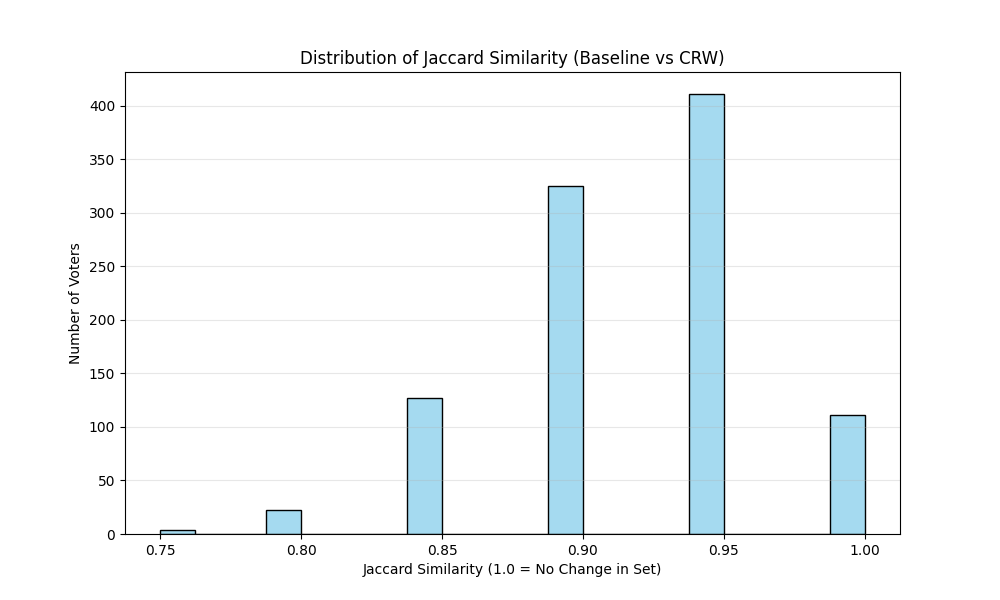
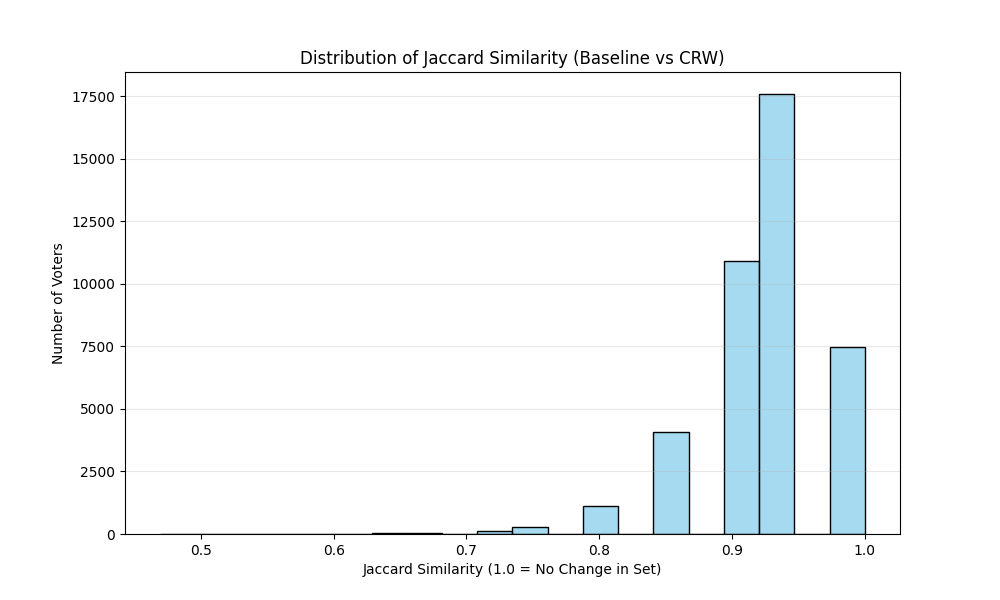
added functionality to rank ALL available candidates

diff --git a/vqs/recommendation_analysis.py b/vqs/recommendation_analysis.py
@@ -4,6 +4,8 @@ import matplotlib.pyplot as plt
 import seaborn as sns
 from pathlib import Path
 
+from vqs.result_management import ResultManager
+
 """
 Important Assumption: 
 We assume equal number of recommendations for all voters. Achieved either by setting n_recommendations to a fixed number, or by filtering voters and candidates by a certain canton. 
@@ -12,18 +14,85 @@ Any NaN values will raise an error.
 
 
 class RecommendationAnalyzer:
-    def __init__(self, config):
+    def __init__(self, config, important_params_list):
         self.config = config
         self.method = config.rec_dist_method
-        # Output directory for plots/stats
+        self.important_params_list = important_params_list
         self.output_dir = Path(config.RECOMMENDATION_RESULTS_DIR)
         self.output_dir.mkdir(parents=True, exist_ok=True)
 
-    def _calculate_jaccard(self, df, base_cols, crw_cols, n):
-        print(f"Calculating Jaccard for {len(df)} voters...")
+        print(
+            f"Initialized RecommendationAnalyzer with important parameters: {self.important_params_list}"
+        )
 
-        # 2. Efficient Vectorized calculation (Fast for 500k rows)
-        # We convert to numpy values once and iterate using zip
+    def analyze(
+        self, df_recommendations: pd.DataFrame, df_weights: pd.DataFrame
+    ) -> pd.DataFrame:
+        df = df_recommendations.copy()
+
+        # 0. Check for cached files
+        prefix = self._get_prefix()
+        rm = ResultManager(
+            config=self.config,
+            dir=self.output_dir,
+            params_list=self.important_params_list,
+            prefix=prefix,
+        )
+
+        exists = rm.exists()
+        if exists:
+            print(f"--- [Skip Save] Result with hash {rm.hash} already exists: ---")
+            print(f"    -> {exists.name}")
+            # TODO: print summary stats from text file if exists
+            return df
+
+        # If no existing file, proceed with analysis
+        print("No cached analysis found. Running new analysis...")
+        # 1. Identify match columns
+        # These look like _matchID_1_L2_sv ... _matchID_36_L2_sv
+        base_match_cols = [
+            c
+            for c in df.columns
+            if c.startswith("_matchID_") and c.endswith(f"_{self.method}")
+        ]
+        crw_match_cols = [
+            c
+            for c in df.columns
+            if c.startswith("CRW__matchID_") and c.endswith(f"_{self.method}")
+        ]
+
+        # 2. Safety checks
+        self._safety_checks(df=df, base_cols=base_match_cols, crw_cols=crw_match_cols)
+        n_recs = len(base_match_cols)
+
+        print(f"Analyzing {n_recs} recommendation slots for {len(df)} voters...")
+
+        # 3. Compute Metrics
+        stats = {}
+        df, stats = self._calculate_jaccard(
+            df=df,
+            base_cols=base_match_cols,
+            crw_cols=crw_match_cols,
+            n=n_recs,
+            stats=stats,
+        )
+
+        df, stats = self._calculate_rank_metrics(
+            df=df,
+            base_cols=base_match_cols,
+            crw_cols=crw_match_cols,
+            stats=stats,
+            n=n_recs,
+        )
+
+        # 5. Print and Save Stats
+        self._print_and_save_stats(stats)
+        self._visualize_changes(df)
+
+        return df
+
+    def _calculate_jaccard(self, df, base_cols, crw_cols, n, stats):
+        # convert to numpy values once and iterate using zip
         base_matrix = df[base_cols].values
         crw_matrix = df[crw_cols].values
 
@@ -45,15 +114,17 @@ class RecommendationAnalyzer:
         df["candidate_changes"] = candidate_changes
 
         # 3. Calculate and Save Stats
-        stats = {
-            "avg_jaccard": np.mean(jaccard_scores),
-            "min_jaccard": np.min(jaccard_scores),
-            "max_jaccard": np.max(jaccard_scores),
-            "pct_changed": (np.array(jaccard_scores) < 1.0).sum() / len(df) * 100,
-            "avg_candidate_changes": np.mean(candidate_changes),
-            "max_candidate_changes": np.max(candidate_changes),
-        }
-        return stats
+        stats.update(
+            {
+                "avg_jaccard": np.mean(jaccard_scores),
+                "min_jaccard": np.min(jaccard_scores),
+                "max_jaccard": np.max(jaccard_scores),
+                "pct_changed": (np.array(jaccard_scores) < 1.0).sum() / len(df) * 100,
+                "avg_candidate_changes": np.mean(candidate_changes),
+                "max_candidate_changes": np.max(candidate_changes),
+            }
+        )
+        return df, stats
 
     def _calculate_rank_metrics(self, df, base_cols, crw_cols, stats, n):
         # Convert to numpy for speed
@@ -87,51 +158,7 @@ class RecommendationAnalyzer:
         #     f"\nMax percentage of rank change for any voter: {max_rank_change:.2f}%"
         # )
 
-        return stats
-
-    def analyze(
-        self, df_recommendations: pd.DataFrame, df_weights: pd.DataFrame
-    ) -> pd.DataFrame:
-        df = df_recommendations.copy()
-
-        # 1. Identify match columns
-        # These look like _matchID_1_L2_sv ... _matchID_36_L2_sv
-        base_match_cols = [
-            c
-            for c in df.columns
-            if c.startswith("_matchID_") and c.endswith(f"_{self.method}")
-        ]
-        crw_match_cols = [
-            c
-            for c in df.columns
-            if c.startswith("CRW__matchID_") and c.endswith(f"_{self.method}")
-        ]
-
-        # 2. Safety checks
-        self._safety_checks(df=df, base_cols=base_match_cols, crw_cols=crw_match_cols)
-        n_recs = len(base_match_cols)
-
-        print(f"Analyzing {n_recs} recommendation slots...")
-
-        # 3. Compute Jaccard Similarity
-        stats: dict = self._calculate_jaccard(
-            df=df, base_cols=base_match_cols, crw_cols=crw_match_cols, n=n_recs
-        )
-
-        # 4. Compute Rank Stability Metrics
-        stats = self._calculate_rank_metrics(
-            df=df,
-            base_cols=base_match_cols,
-            crw_cols=crw_match_cols,
-            stats=stats,
-            n=n_recs,
-        )
-
-        # 5. Print and Save Stats
-        self._print_and_save_stats(stats)
-        self._visualize_changes(df)
-
-        return df
+        return df, stats
 
     def _print_and_save_stats(self, stats):
         summary_line = (
@@ -190,3 +217,15 @@ class RecommendationAnalyzer:
             raise ValueError(
                 "⚠️ Critical Error: NaN values detected in recommendation matches."
             )
+
+    def _get_prefix(self):
+        dist = self.config.dist
+        data_year = self.config.data_year
+        district = self.config.district if self.config.filter_districts else "all"
+        alpha = self.config.alpha
+        paper = self.config.crw_paper_choice
+        subset = self.config.subset_n if self.config.subset_n is not None else None
+        prefix = f"analysis_{data_year}_{dist}_a{alpha}_{paper}_canton={district}"
+        if subset is not None:
+            prefix += f"_subset={subset}"
+        return prefix

diff --git a/vqs/recommendation_engine.py b/vqs/recommendation_engine.py
@@ -17,6 +17,11 @@ class RecommendationEngine:
             weight_cols = self.df_voters.filter(like="weight_").columns
             self.df_voters[weight_cols] = 1
 
+        if self.config.n_recommendations == "all":
+            self.n_recs = len(self.df_candidates)
+        else:
+            self.n_recs = self.config.n_recommendations
+
         # Parameters that affect the recommendationcalculations and should be included in the cache hash
         self.important_params_list = (
             [
@@ -45,7 +50,7 @@ class RecommendationEngine:
             df_voters=self.df_voters.copy(),
             df_candidates=self.df_candidates,
             distance_method=self.dist_method,
-            n_recommendations=self.config.n_recommendations,
+            n_recommendations=self.n_recs,  # type: ignore
         )
 
     def run_crw(self, df_weights):
@@ -68,13 +73,14 @@ class RecommendationEngine:
             df_voters=voters_modified,
             df_candidates=self.df_candidates,
             distance_method=self.dist_method,
-            n_recommendations=self.config.n_recommendations,
+            n_recommendations=self.n_recs,  # type: ignore
         )
 
     def evaluate_pipeline(self, df_weights) -> pd.DataFrame:
         # 1. Check for existing results in cache to avoid redundant computation
         prefix = f"recs_{self.config.data_year}_{self.config.dist}_a{self.config.alpha}_subset={self.config.subset_n}"
         prefix += f"_{self.config.district}" if self.config.filter_districts else ""
+        prefix += f"_top{self.n_recs}" if self.n_recs is not None else ""
 
         rm = ResultManager(
             config=self.config,

diff --git a/main.py b/main.py
@@ -147,10 +147,14 @@ def main(config):
 
             # 7. Analyze and save recommendation changes
             print("Analyzing recommendation changes...")
-            analyzer = RecommendationAnalyzer(config)
+            analyzer = RecommendationAnalyzer(
+                config=config,
+                important_params_list=rec_engine.important_params_list,
+            )
             # This will check for cache (use crw weights to calculate the hash), calculate if needed, save CSV, and save the plot
             analyzed_df = analyzer.analyze(
-                df_recommendations=recommendation_df, df_weights=reweighted_results
+                df_recommendations=recommendation_df,
+                df_weights=reweighted_results,
             )
 
 

diff --git a/configs/base_constants.py b/configs/base_constants.py
@@ -188,6 +188,9 @@ alpha: float = 0.6  # locality parameter, r in [0, alpha]
 # whether to use original weights (1.0 or 2.0) or set all weights to 1.0.
 use_OG_weights = False
 
+rank_all: bool = (
+    False  # if True, recommendation_engine will calculate rankings for all available candidates. Note that n_recommendations trumps this if it's set to an integer
+)
 n_recommendations: int | None = None
 # how many candidates to recommend per voter. If none, n_recommendation reflects size of list of that canton.
 

diff --git a/configs/full_pipeline/pipeline_e5_ZH.py b/configs/full_pipeline/pipeline_e5_ZH.py
@@ -9,3 +9,5 @@ data_choice = "cleaned"
 dist = "E5"
 filter_districts = True
 district = "ZH"
+
+rank_all = True